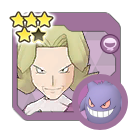
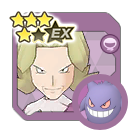
Add v2.43.0

Changed region(s): [[0.2963, 0.0889, 0.5926, 0.3556], [0.2963, 0.0889, 0.3259, 0.1185]]

diff --git a/js/syncpairs.js b/js/syncpairs.js
@@ -831,7 +831,8 @@ export const SYNCPAIRS = [
 		"syncPairRegion": "Kanto",
 		"images": [
 			"Sync Pairs/0A_KANTO/0A_KANTO_0C-03_Agatha.png",
-			"Sync Pairs/5Star/0A_KANTO_0C-03_Agatha_5Star.png"
+			"Sync Pairs/5Star/0A_KANTO_0C-03_Agatha_5Star.png",
+			"Sync Pairs/0A_KANTO/0A_KANTO_0C-03_Agatha_EX.png"
 		],
 		"themes": [
 			"Ghost",
@@ -2078,6 +2079,43 @@ export const SYNCPAIRS = [
 			"Multiple Units",
 			"isMan",
 			"Multiple Pokemon"
+		]
+	},
+	{
+		"dexNumber": "029",
+		"trainerName": "Barry",
+		"trainerAlt": "Special Costume",
+		"pokemonNumber": "0214",
+		"pokemonName": "Heracross",
+		"pokemonGender": "♂",
+		"pokemonForm": [
+			"Mega Evolution"
+		],
+		"pokemonType": "Bug",
+		"pokemonWeak": "Flying",
+		"syncPairRole": "Strike (Physical)",
+		"syncPairRoleEX": "Tech",
+		"syncPairRarity": "5",
+		"releaseDate": "2024-04-12",
+		"syncPairAcquisition": "Special Costume Scout",
+		"syncPairRegion": "Sinnoh",
+		"images": [
+			"Sync Pairs/0Y_SEASONALS/Barry_0214.png",
+			"Sync Pairs/0Y_SEASONALS/Barry_0214_EX.png"
+		],
+		"themes": [
+			"Bug",
+			"Sinnoh",
+			"Rival",
+			"Special Costume",
+			"Passionate Spirit"
+		],
+		"tags": [
+			"Buddy Move",
+			"Limited",
+			"Unique Costume",
+			"Multiple Units",
+			"isMan"
 		]
 	},
 	{
@@ -4389,7 +4427,9 @@ export const SYNCPAIRS = [
 			"isWoman",
 			"Weather",
 			"Starter",
-			"First Unit"
+			"First Unit",
+			"Grid3",
+			"GridExpansion"
 		]
 	},
 	{
@@ -4766,7 +4806,7 @@ export const SYNCPAIRS = [
 		"pokemonType": "Fire",
 		"pokemonWeak": "Dark",
 		"syncPairRole": "Strike (Physical)",
-		"syncPairRoleEX": "",
+		"syncPairRoleEX": "Support",
 		"syncPairRarity": "5",
 		"releaseDate": "2022-10-31",
 		"syncPairAcquisition": "Poké Fair Scout",
@@ -4873,7 +4913,7 @@ export const SYNCPAIRS = [
 		"pokemonType": "Electric",
 		"pokemonWeak": "Ice",
 		"syncPairRole": "Tech",
-		"syncPairRoleEX": "",
+		"syncPairRoleEX": "Sprint",
 		"syncPairRarity": "5",
 		"releaseDate": "2021-12-09",
 		"syncPairAcquisition": "Poké Fair Scout",
@@ -6477,7 +6517,7 @@ export const SYNCPAIRS = [
 		"pokemonType": "Fire",
 		"pokemonWeak": "Rock",
 		"syncPairRole": "Strike (Special)",
-		"syncPairRoleEX": "",
+		"syncPairRoleEX": "Tech",
 		"syncPairRarity": "5",
 		"releaseDate": "2020-02-28",
 		"syncPairAcquisition": "Poké Fair Scout",
@@ -7672,6 +7712,7 @@ export const SYNCPAIRS = [
 		"tags": [
 			"Limited",
 			"Multiple Units",
+			"Multiple Pokemon",
 			"isMan",
 			"Unique Costume"
 		]
@@ -9424,7 +9465,7 @@ export const SYNCPAIRS = [
 		"pokemonType": "Fire",
 		"pokemonWeak": "Flying",
 		"syncPairRole": "Tech",
-		"syncPairRoleEX": "",
+		"syncPairRoleEX": "Sprint",
 		"syncPairRarity": "5",
 		"releaseDate": "2022-07-29",
 		"syncPairAcquisition": "Poké Fair Scout",
@@ -9597,7 +9638,7 @@ export const SYNCPAIRS = [
 		"pokemonType": "Flying",
 		"pokemonWeak": "Fairy",
 		"syncPairRole": "Strike (Special)",
-		"syncPairRoleEX": "",
+		"syncPairRoleEX": "Sprint",
 		"syncPairRarity": "5",
 		"releaseDate": "2021-02-11",
 		"syncPairAcquisition": "Poké Fair Scout",
@@ -10387,6 +10428,44 @@ export const SYNCPAIRS = [
 		]
 	},
 	{
+		"dexNumber": "121",
+		"trainerName": "Selene",
+		"trainerAlt": "Special Costume",
+		"pokemonNumber": "0212",
+		"pokemonName": "Scizor",
+		"pokemonGender": "♀",
+		"pokemonForm": [
+			"Mega Evolution"
+		],
+		"pokemonType": "Steel",
+		"pokemonWeak": "Fire",
+		"syncPairRole": "Field",
+		"syncPairRoleEX": "Strike (Physical)",
+		"syncPairRarity": "5",
+		"releaseDate": "2024-04-14",
+		"syncPairAcquisition": "Special Costume Scout",
+		"syncPairRegion": "Alola",
+		"images": [
+			"Sync Pairs/0Y_SEASONALS/Selene_0212.png",
+			"Sync Pairs/0Y_SEASONALS/Selene_0212_EX.png"
+		],
+		"themes": [
+			"Steel",
+			"Alola",
+			"Main Character",
+			"Special Costume",
+			"Passionate Spirit"
+		],
+		"tags": [
+			"Buddy Move",
+			"Limited",
+			"Wish Zone",
+			"Unique Costume",
+			"Multiple Units",
+			"isWoman"
+		]
+	},
+	{
 		"dexNumber": "122",
 		"trainerName": "Elio",
 		"trainerAlt": "",
@@ -10794,7 +10873,7 @@ export const SYNCPAIRS = [
 		"pokemonType": "Water",
 		"pokemonWeak": "Grass",
 		"syncPairRole": "Strike (Special)",
-		"syncPairRoleEX": "",
+		"syncPairRoleEX": "Tech",
 		"syncPairRarity": "5",
 		"releaseDate": "2021-06-01",
 		"syncPairAcquisition": "Master Fair Scout",
@@ -12547,7 +12626,7 @@ export const SYNCPAIRS = [
 		"pokemonType": "Poison",
 		"pokemonWeak": "Psychic",
 		"syncPairRole": "Strike (Physical)",
-		"syncPairRoleEX": "",
+		"syncPairRoleEX": "Support",
 		"syncPairRarity": "5",
 		"releaseDate": "2023-02-17",
 		"syncPairAcquisition": "Poké Fair Scout",
@@ -13914,6 +13993,113 @@ export const SYNCPAIRS = [
 			"Rebuff",
 			"First Unit"
 		]
+	},
+	{
+		"dexNumber": "199",
+		"trainerName": "Volo",
+		"trainerAlt": "",
+		"pokemonNumber": "0175",
+		"pokemonName": "Togepi",
+		"pokemonGender": "♀",
+		"pokemonForm": [],
+		"pokemonType": "Fairy",
+		"pokemonWeak": "Steel",
+		"syncPairRole": "Field",
+		"syncPairRoleEX": "Tech",
+		"syncPairRarity": "5",
+		"releaseDate": "2024-03-29",
+		"syncPairAcquisition": "Poké Fair Scout",
+		"syncPairRegion": "Sinnoh",
+		"images": [
+			"Sync Pairs/0I_HISUI/Volo_0175.png",
+			"Sync Pairs/0I_HISUI/Volo_0175_EX.png"
+		],
+		"themes": [
+			"Fairy",
+			"Sinnoh",
+			"Knowledgeable",
+			"Researcher"
+		],
+		"tags": [
+			"Grid5",
+			"Buddy Move",
+			"Limited",
+			"Wish Zone",
+			"Region Circle",
+			"Multiple Units",
+			"Multiple Pokemon",
+			"isMan",
+			"First Unit"
+		]
+	},
+	{
+		"dexNumber": "199",
+		"trainerName": "Volo",
+		"trainerAlt": "Lodge",
+		"pokemonNumber": "0443",
+		"pokemonName": "Gible",
+		"pokemonGender": "♂",
+		"pokemonForm": [],
+		"pokemonType": "Ground",
+		"pokemonWeak": "Ice",
+		"syncPairRole": "Strike (Physical)",
+		"syncPairRoleEX": "",
+		"syncPairRarity": "4",
+		"releaseDate": "2024-03-29",
+		"syncPairAcquisition": "Trainer Lodge Exchange",
+		"syncPairRegion": "Sinnoh",
+		"images": [
+			"Sync Pairs/0I_HISUI/Volo_0443.png",
+			"Sync Pairs/5Star/Volo_0443_5Star.png",
+			"Sync Pairs/0I_HISUI/Volo_0443_EX.png"
+		],
+		"themes": [
+			"Ground",
+			"Sinnoh",
+			"Knowledgeable",
+			"Researcher"
+		],
+		"tags": [
+			"Limited",
+			"Weather",
+			"Multiple Units",
+			"isMan"
+		]
+	},
+	{
+		"dexNumber": "200",
+		"trainerName": "Jacq",
+		"trainerAlt": "",
+		"pokemonNumber": "0981",
+		"pokemonName": "Farigiraf",
+		"pokemonGender": "♀",
+		"pokemonForm": [],
+		"pokemonType": "Psychic",
+		"pokemonWeak": "Bug",
+		"syncPairRole": "Tech",
+		"syncPairRoleEX": "Support",
+		"syncPairRarity": "5",
+		"releaseDate": "2024-03-31",
+		"syncPairAcquisition": "Poké Fair Scout",
+		"syncPairRegion": "Paldea",
+		"images": [
+			"Sync Pairs/0J_PALDEA/Jacq_0981.png",
+			"Sync Pairs/0J_PALDEA/Jacq_0981_EX.png"
+		],
+		"themes": [
+			"Psychic",
+			"Paldea",
+			"Knowledgeable",
+			"Gadgeteer",
+			"Free Spirit"
+		],
+		"tags": [
+			"Grid5",
+			"Buddy Move",
+			"Limited",
+			"isMan",
+			"First Unit"
+		]
 	}
 ]
 
@@ -13980,4 +14166,4 @@ const P = {
 }
 
 
-export const VERSION = "v2.42.0";
+export const VERSION = "v2.43.0";

diff --git a/js/news.js b/js/news.js
@@ -1,5 +1,9 @@
 export const NEWS = [
 	{
+		"date": "2024-03-27",
+		"info" : "Add v2.43.0"
+	},
+	{
 		"date": "2024-03-14",
 		"info" : "Add ability to track sync grid energy cap"
 	},
